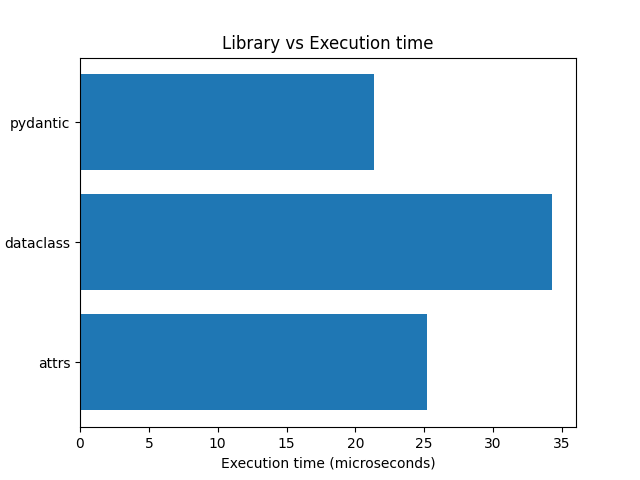
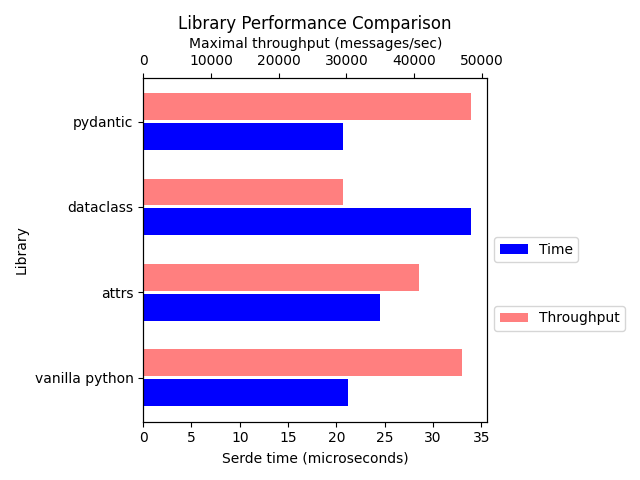
feat: Added vanilla python for comparison

diff --git a/examples/serde_speed.py b/examples/serde_speed.py
@@ -1,4 +1,5 @@
 import matplotlib.pyplot as plt
+import numpy as np
 import json
 import os
 import time
@@ -10,9 +11,11 @@ from confluent_kafka.serialization import SerializationContext, MessageField
 
 from kafka_mocha.schema_registry.mock_schema_registry_client import MockSchemaRegistryClient
 
+from examples.models.as_vanilla_python import UserRegistered as UserRegistered__vanilla
 from examples.models.as_attrs import UserRegistered as UserRegistered__attrs
 from examples.models.as_dataclass import UserRegistered as UserRegistered__dataclass
 from examples.models.as_pydantic import UserRegistered as UserRegistered__pydantic
+from examples.models.as_vanilla_python import EventEnvelope as EventEnvelope__vanilla
 from examples.models.as_attrs import EventEnvelope as EventEnvelope__attrs
 from examples.models.as_dataclass import EventEnvelope as EventEnvelope__dataclass
 from examples.models.as_pydantic import EventEnvelope as EventEnvelope__pydantic
@@ -51,6 +54,9 @@ def check_speed():
     )
 
     user_id = uuid4()
+    event_van = UserRegistered__vanilla(
+        user_id, "John", "Attrivani", True, "LITE", datetime.now(), 7.2, EventEnvelope__vanilla()
+    )
     event_at = UserRegistered__attrs(
         user_id, "John", "Attrivani", True, "LITE", datetime.now(), 7.2, EventEnvelope__attrs()
     )
@@ -73,12 +79,23 @@ def check_speed():
 
     start_time = time.time()
     for _ in range(TEST_RUNS):
-        output_event = serde_event(avro_serializer, avro_deserializer, UserRegistered__attrs, event_at)
+        output_event = serde_event(avro_serializer, avro_deserializer, UserRegistered__vanilla, event_van)
     elapsed_time = time.time() - start_time
     print("\n")
+    print(f"[VANILLA] Execution time (total): {elapsed_time:.5f} seconds")
+    print(f"[VANILLA] Execution time (per message): {(van_time := (elapsed_time / TEST_RUNS) * 1e6):.3f} microseconds")
+    print(f"[VANILLA] Maximal throughput: {(van_msgs := int(1 / (elapsed_time / TEST_RUNS)))} messages/sec\n")
+
+    # print(event_van)
+    # print(str(output_event) + "\n\n")
+
+    start_time = time.time()
+    for _ in range(TEST_RUNS):
+        output_event = serde_event(avro_serializer, avro_deserializer, UserRegistered__attrs, event_at)
+    elapsed_time = time.time() - start_time
     print(f"[ATTRS] Execution time (total): {elapsed_time:.5f} seconds")
     print(f"[ATTRS] Execution time (per message): {(attrs_time := (elapsed_time / TEST_RUNS) * 1e6):.3f} microseconds")
-    print(f"[ATTRS] Maximal throughput: {int(1 / (elapsed_time / TEST_RUNS))} messages/sec\n")
+    print(f"[ATTRS] Maximal throughput: {(attrs_msgs := int(1 / (elapsed_time / TEST_RUNS)))} messages/sec\n")
 
     # print(event_at)
     # print(str(output_event) + "\n\n")
@@ -89,7 +106,7 @@ def check_speed():
     elapsed_time = time.time() - start_time
     print(f"[DATACLASS] Execution time: {elapsed_time:.5f} seconds")
     print(f"[DATACLASS] Execution time (per message): {(dc_time := (elapsed_time / TEST_RUNS) * 1e6):.3f} microseconds")
-    print(f"[DATACLASS] Maximal throughput: {int(1 / (elapsed_time / TEST_RUNS))} messages/sec\n")
+    print(f"[DATACLASS] Maximal throughput: {(dc_msgs := int(1 / (elapsed_time / TEST_RUNS)))} messages/sec\n")
 
     # print(event_dc)
     # print(str(output_event) + "\n\n")
@@ -100,19 +117,38 @@ def check_speed():
     elapsed_time = time.time() - start_time
     print(f"[PYDANTIC] Execution time: {elapsed_time:.5f} seconds")
     print(f"[PYDANTIC] Execution time (per message): {(pd_time := (elapsed_time / TEST_RUNS) * 1e6):.3f} microseconds")
-    print(f"[PYDANTIC] Maximal throughput: {int(1 / (elapsed_time / TEST_RUNS))} messages/sec\n")
+    print(f"[PYDANTIC] Maximal throughput: {(pd_msgs := int(1 / (elapsed_time / TEST_RUNS)))} messages/sec\n")
 
     # print(event_pd)
     # print(str(output_event) + "\n\n")
 
-    library = ["attrs", "dataclass", "pydantic"]
-    times = [attrs_time, dc_time, pd_time]
+    libraries = ["vanilla python", "attrs", "dataclass", "pydantic"]
+    times = [van_time, attrs_time, dc_time, pd_time]
+    messages = [van_msgs, attrs_msgs, dc_msgs, pd_msgs]
 
-    plt.barh(library, times)
+    # Calculate y positions for bars
+    y_pos = np.arange(len(libraries))
+    width = 0.35  # Width of bars
+    y1 = y_pos - width / 2  # First set of bars
+    y2 = y_pos + width / 2  # Second set of bars
+    fig, ax1 = plt.subplots()
 
-    plt.title("Library vs Execution time")
-    plt.xlabel("Execution time (microseconds)")
-    plt.ylabel("Library")
+    ax1.set_xlabel("Serde time (microseconds)")
+    ax1.set_ylabel("Library")
+    ax1.barh(y1, times, height=0.9*width, color='blue', label='Time')
+    ax1.set_yticks(y_pos)
+    ax1.set_yticklabels(libraries)
+
+    ax2 = ax1.twiny()
+    ax2.set_xlabel("Maximal throughput (messages/sec)")
+    ax2.barh(y2, messages, height=0.9*width, color='red', alpha=0.5, label='Throughput')
+
+    plt.title("Library Performance Comparison")
+    ax2.legend(loc='center left', bbox_to_anchor=(1.0, 0.3))
+    ax1.legend(loc='center left', bbox_to_anchor=(1.0, 0.5))
+
+    fig.tight_layout(rect=[0, 0, 0.9, 1])
+    fig.tight_layout()
     plt.savefig("outputs/serde_speed.png")
     plt.show()
 

diff --git a/examples/models/as_vanilla_python.py b/examples/models/as_vanilla_python.py
@@ -1,0 +1,63 @@
+from datetime import datetime
+from enum import Enum
+from uuid import UUID, uuid4
+
+
+def serialize_value(value):
+    if hasattr(value, "to_dict"):
+        return value.to_dict()
+    elif isinstance(value, Enum):
+        return value.value
+    elif isinstance(value, UUID):
+        return str(value)
+    elif isinstance(value, datetime):
+        return int(value.timestamp() * 1000)
+    return value
+
+
+class SubscriptionType(str, Enum):
+    FREE = "FREE"
+    LITE = "LITE"
+    PRO = "PRO"
+
+
+class EventEnvelope:
+    __slots__ = ("envelope_id", "event_timestamp", "app_name", "app_version")
+
+    def __init__(self, envelope_id: UUID | str | None = None, event_timestamp: datetime | int | None = None, app_name: str = "kafka_mocha_on_vanilla", app_version: str = "1.0.0"):
+        if envelope_id is None:
+            self.envelope_id = uuid4()
+        else:
+            self.envelope_id = UUID(envelope_id) if isinstance(envelope_id, str) else envelope_id
+        if event_timestamp is None:
+            self.event_timestamp = datetime.now()
+        else:
+            self.event_timestamp = datetime.fromtimestamp(event_timestamp / 1000) if isinstance(event_timestamp, int) else event_timestamp
+        self.app_name = app_name
+        self.app_version = app_version
+
+    def to_dict(self):
+        return {field_name: serialize_value(self.__getattribute__(field_name)) for field_name in self.__slots__}
+
+    def __repr__(self):
+        return f"EventEnvelope(envelope_id={self.envelope_id}, event_timestamp={self.event_timestamp}, app_name={self.app_name}, app_version={self.app_version})"
+
+
+class UserRegistered:
+    __slots__ = ("user_id", "user_name", "user_last_name", "is_new_user", "subscription_type", "registration_timestamp", "score", "envelope")
+
+    def __init__(self, user_id: UUID | str, user_name: str, user_last_name: str, is_new_user: bool, subscription_type: SubscriptionType | str, registration_timestamp: datetime | int, score: float, envelope: EventEnvelope | dict):
+        self.user_id = UUID(user_id) if isinstance(user_id, str) else user_id
+        self.user_name = user_name
+        self.user_last_name = user_last_name
+        self.is_new_user = is_new_user
+        self.subscription_type = SubscriptionType(subscription_type) if isinstance(subscription_type, str) else subscription_type
+        self.registration_timestamp = datetime.fromtimestamp(registration_timestamp / 1000) if isinstance(registration_timestamp, int) else registration_timestamp
+        self.score = score
+        self.envelope = EventEnvelope(**envelope) if isinstance(envelope, dict) else envelope
+
+    def to_dict(self):
+        return {field_name: serialize_value(self.__getattribute__(field_name)) for field_name in self.__slots__}
+
+    def __repr__(self):
+        return f"UserRegistered(user_id={self.user_id}, user_name={self.user_name}, user_last_name={self.user_last_name}, is_new_user={self.is_new_user}, subscription_type={self.subscription_type}, registration_timestamp={self.registration_timestamp}, score={self.score}, envelope={self.envelope})"
